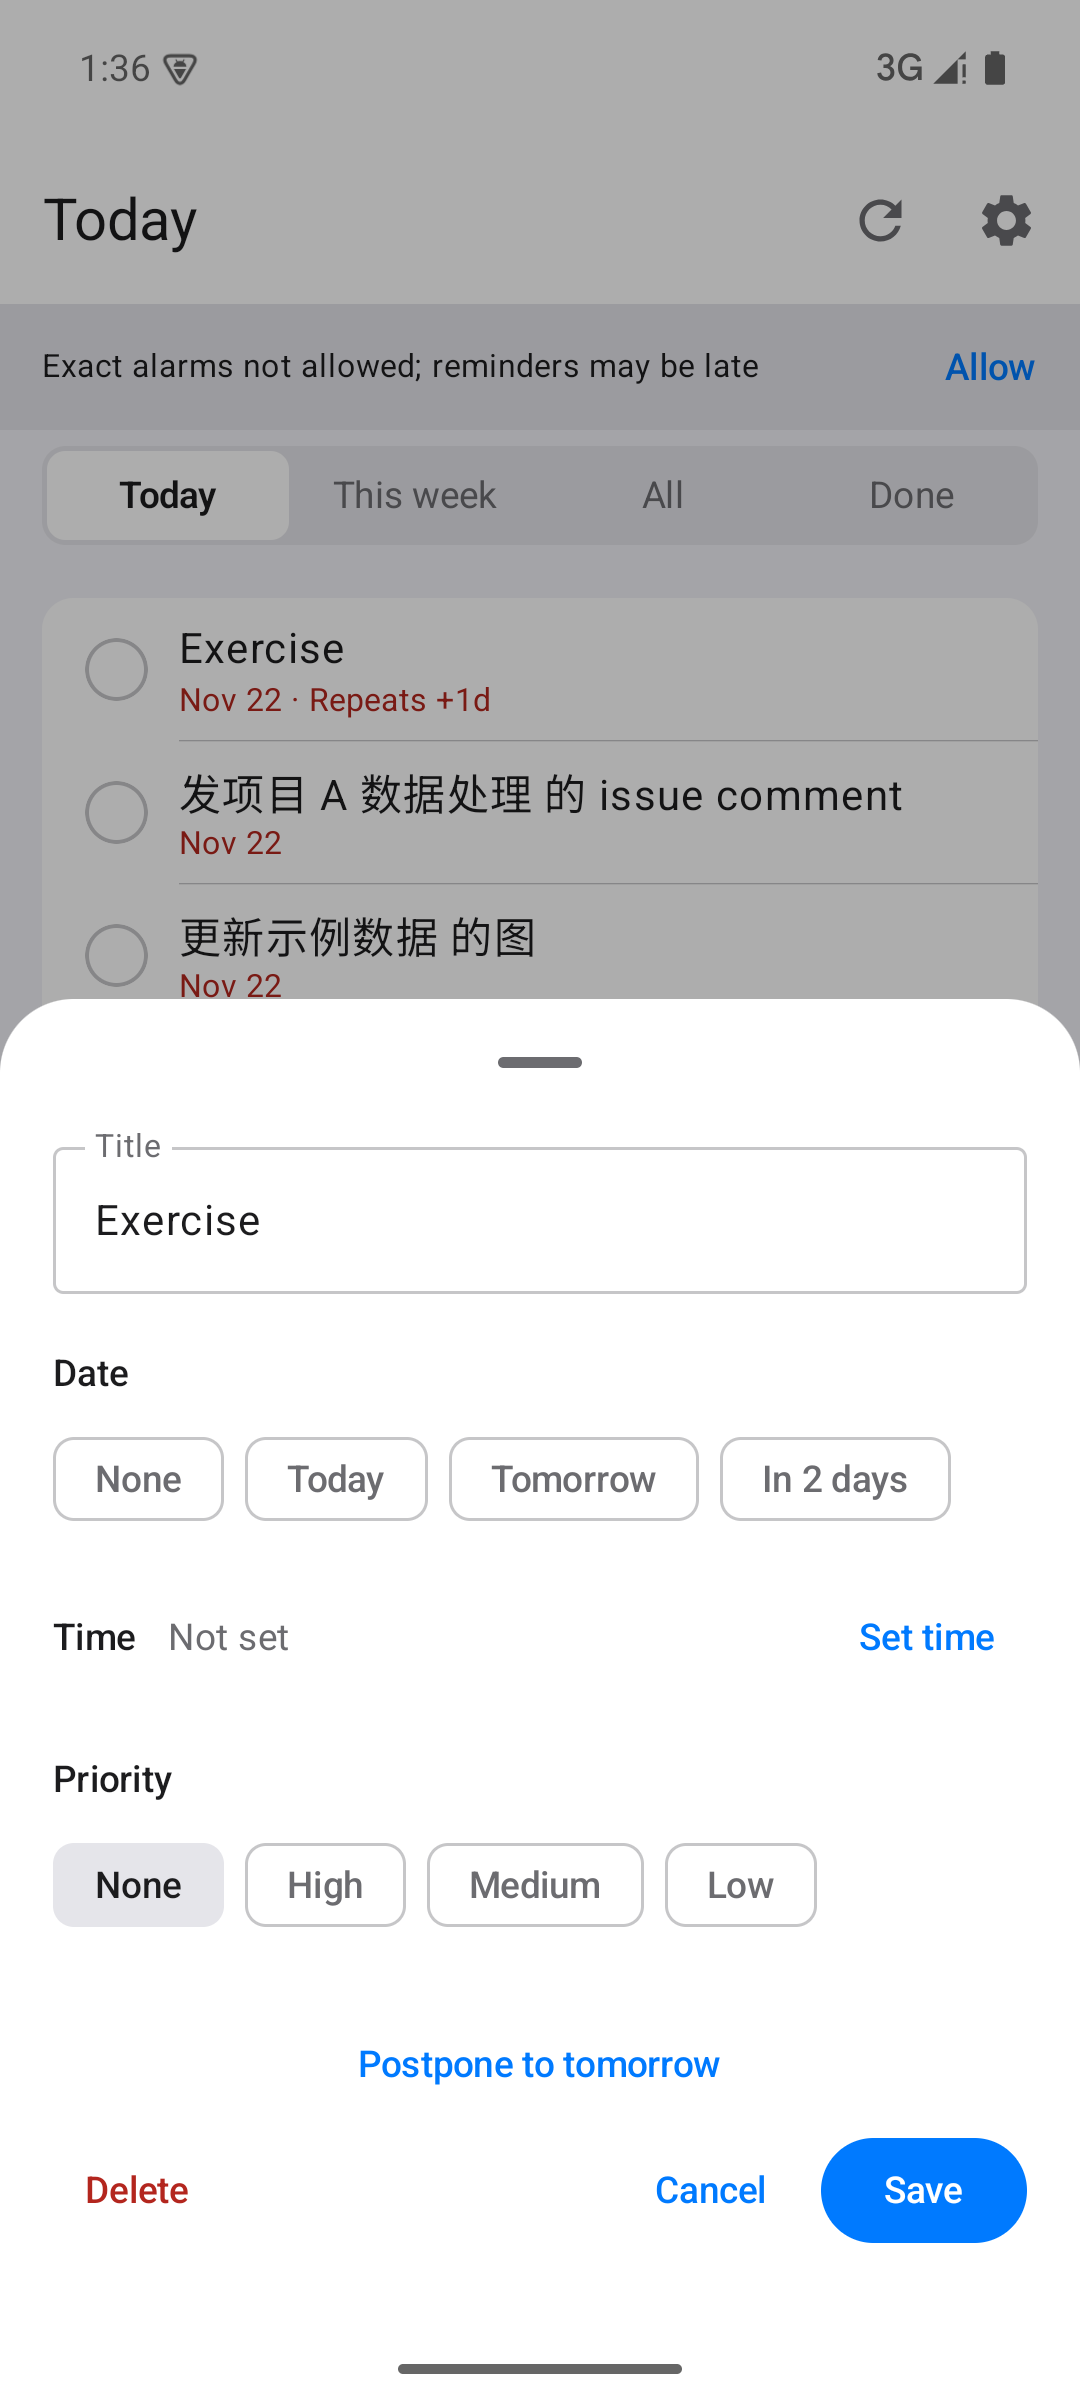
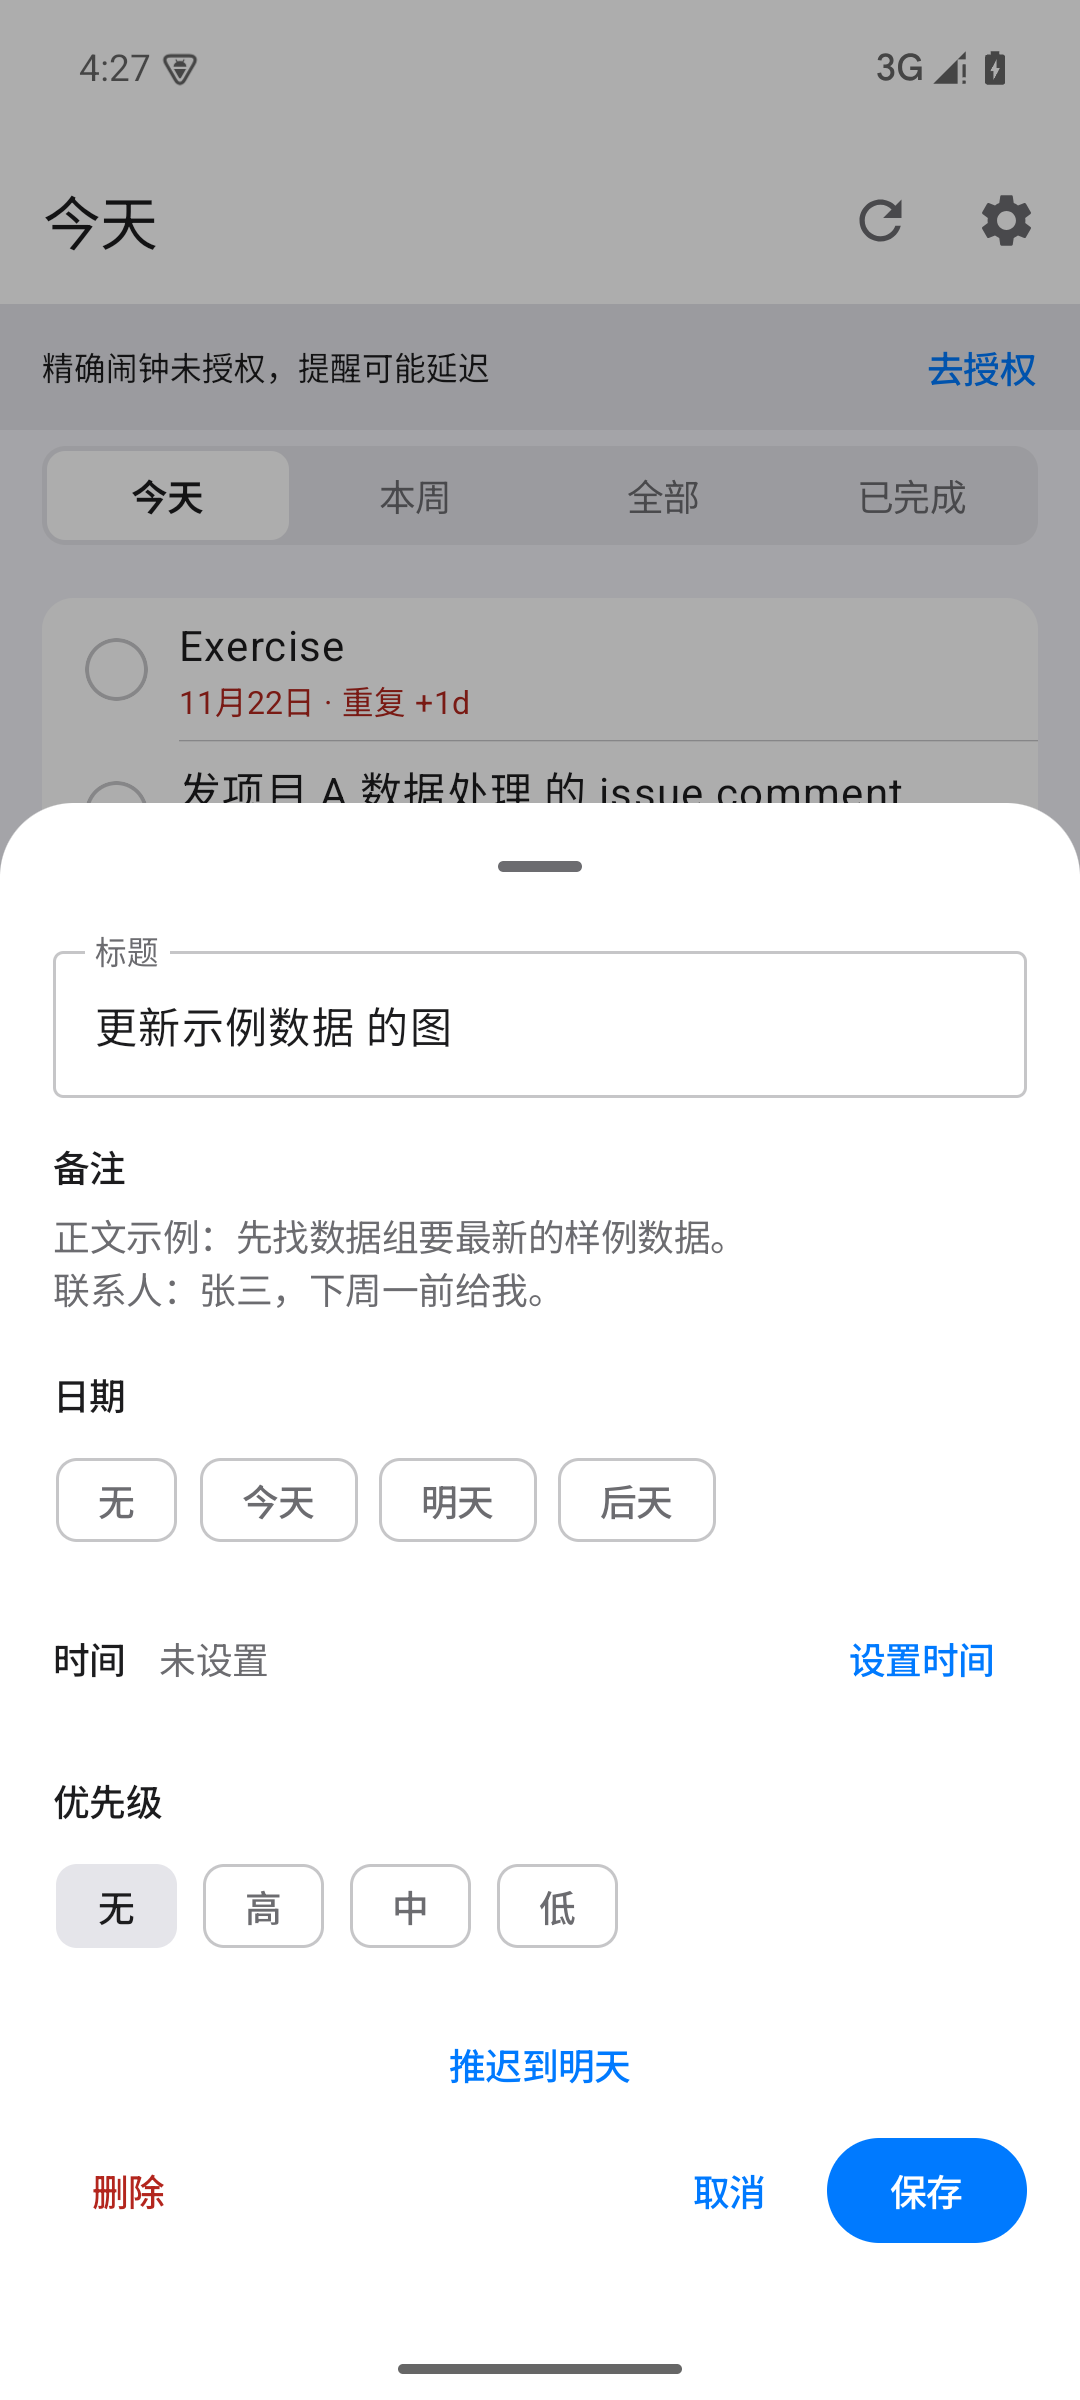
feat: 任务详情显示备注，已完成支持归档/取消归档
- 详情面板新增备注区，保留正文换行，只读
- 已完成任务可写 :ARCHIVED_AT: 归档，列表默认隐藏
- 已完成页新增「已归档」切换，可查看并取消归档
- 补属性读写单测与映射测试（49 个测试）

diff --git a/app/src/main/kotlin/dev/orgtd/ui/TaskEditor.kt b/app/src/main/kotlin/dev/orgtd/ui/TaskEditor.kt
@@ -5,6 +5,9 @@ import androidx.compose.foundation.layout.Column
 import androidx.compose.foundation.layout.Row
 import androidx.compose.foundation.layout.Spacer
 import androidx.compose.foundation.layout.fillMaxWidth
+import androidx.compose.foundation.layout.heightIn
+import androidx.compose.foundation.rememberScrollState
+import androidx.compose.foundation.verticalScroll
 import androidx.compose.foundation.layout.height
 import androidx.compose.foundation.layout.padding
 import androidx.compose.foundation.layout.width
@@ -92,6 +95,8 @@ fun TaskSheet(
     onSave: (String, LocalDate?, LocalTime?, Char?) -> Unit,
     onDelete: () -> Unit,
     onPostpone: (Long) -> Unit,
+    onArchive: () -> Unit,
+    onUnarchive: () -> Unit,
 ) {
     val strings = LocalStrings.current
     val sheetState = rememberBottomSheetState(
@@ -117,6 +122,21 @@ fun TaskSheet(
                 label = { Text(strings.titleLabel) },
                 modifier = Modifier.fillMaxWidth(),
             )
+
+            if (task.body.isNotBlank()) {
+                Spacer(Modifier.height(16.dp))
+                Text(strings.notesLabel, style = MaterialTheme.typography.labelLarge)
+                Text(
+                    text = task.body,
+                    style = MaterialTheme.typography.bodyMedium,
+                    color = MaterialTheme.colorScheme.onSurfaceVariant,
+                    modifier = Modifier
+                        .fillMaxWidth()
+                        .heightIn(max = 220.dp)
+                        .verticalScroll(rememberScrollState())
+                        .padding(top = 6.dp),
+                )
+            }
 
             Spacer(Modifier.height(20.dp))
             Text(strings.dateLabel, style = MaterialTheme.typography.labelLarge)
@@ -172,7 +192,15 @@ fun TaskSheet(
                 }
             }
 
-            Spacer(Modifier.height(20.dp))
+            if (task.done) {
+                Spacer(Modifier.height(12.dp))
+                TextButton(
+                    onClick = { if (task.archived) onUnarchive() else onArchive() },
+                    modifier = Modifier.fillMaxWidth(),
+                ) { Text(if (task.archived) strings.unarchive else strings.archive) }
+            }
+
+            Spacer(Modifier.height(12.dp))
             Box(Modifier.fillMaxWidth()) {
                 var postponeMenu by rememberSaveable { mutableStateOf(false) }
                 TextButton(

diff --git a/app/src/main/kotlin/dev/orgtd/ui/OrgtdApp.kt b/app/src/main/kotlin/dev/orgtd/ui/OrgtdApp.kt
@@ -125,6 +125,8 @@ fun OrgtdApp(
     onAddTaskToList: (String, LocalDate?, Int) -> Unit,
     onUpdateTask: (Int, String, LocalDate?, LocalTime?, Char?) -> Unit,
     onPostponeTask: (Int, Long) -> Unit,
+    onArchiveTask: (Int) -> Unit,
+    onUnarchiveTask: (Int) -> Unit,
     onDeleteTask: (Int) -> Unit,
     onUndoDelete: () -> Unit,
     onAddList: (String) -> Unit,
@@ -403,6 +405,14 @@ fun OrgtdApp(
                 onPostponeTask(editing.line, days)
                 editingLine = -1
             },
+            onArchive = {
+                onArchiveTask(editing.line)
+                editingLine = -1
+            },
+            onUnarchive = {
+                onUnarchiveTask(editing.line)
+                editingLine = -1
+            },
         )
     }
 }
@@ -425,7 +435,28 @@ private fun TodayTab(
     when (Range.entries[rangeIndex]) {
         Range.Today -> TaskList(state.today, today, onToggle, onOpen, onPostpone, strings.noTasksToday)
         Range.Week -> TaskList(state.week, today, onToggle, onOpen, onPostpone, strings.noTasksWeek)
-        Range.Completed -> TaskList(state.completed, today, onToggle, onOpen, onPostpone, strings.noCompleted)
+        Range.Completed -> {
+            var showArchived by rememberSaveable { mutableStateOf(false) }
+            Column(Modifier.fillMaxSize()) {
+                Row(Modifier.padding(horizontal = 16.dp)) {
+                    FilterChip(
+                        selected = showArchived,
+                        onClick = { showArchived = !showArchived },
+                        label = { Text(strings.archived) },
+                    )
+                }
+                Box(Modifier.weight(1f)) {
+                    TaskList(
+                        tasks = if (showArchived) state.archived else state.completed,
+                        today = today,
+                        onToggle = onToggle,
+                        onOpen = onOpen,
+                        onPostpone = onPostpone,
+                        emptyText = if (showArchived) strings.noArchived else strings.noCompleted,
+                    )
+                }
+            }
+        }
         Range.All -> {
             val groups = state.tasks.filter { !it.done }.groupBy { it.listName ?: strings.ungrouped }
             if (groups.isEmpty()) {

diff --git a/orgmode/src/main/kotlin/dev/orgtd/orgmode/OrgDocument.kt b/orgmode/src/main/kotlin/dev/orgtd/orgmode/OrgDocument.kt
@@ -119,6 +119,58 @@ class OrgDocument private constructor(val lines: List<String>) {
         return OrgDocument(out)
     }
 
+    /** 写入/覆盖一个属性；没有属性抽屉时自动补一个。 */
+    fun setProperty(target: Headline, key: String, value: String): OrgDocument {
+        val out = lines.toMutableList()
+        val nl = newline(out)
+        val drawer = findPropertiesDrawer(out, target)
+
+        if (drawer == null) {
+            out.addAll(
+                target.lineIndex + 1,
+                listOf(
+                    "  :PROPERTIES:$nl",
+                    "  :$key: $value$nl",
+                    "  :END:$nl",
+                ),
+            )
+            return OrgDocument(out)
+        }
+
+        val (start, end) = drawer
+        val indent = out[end].takeWhile { it == ' ' || it == '\t' }
+        for (i in start + 1 until end) {
+            val text = lineText(out[i])
+            if (PROPERTY_RE.find(text)?.groupValues?.get(1).equals(key, ignoreCase = true)) {
+                out[i] = "$indent:$key: $value$nl"
+                return OrgDocument(out)
+            }
+        }
+        out.add(end, "$indent:$key: $value$nl")
+        return OrgDocument(out)
+    }
+
+    /** 删除属性；抽屉变空时一并删掉。 */
+    fun removeProperty(target: Headline, key: String): OrgDocument {
+        val out = lines.toMutableList()
+        val drawer = findPropertiesDrawer(out, target) ?: return this
+        val (start, end) = drawer
+
+        for (i in start + 1 until end) {
+            val match = PROPERTY_RE.find(lineText(out[i])) ?: continue
+            if (match.groupValues[1].equals(key, ignoreCase = true)) {
+                out.removeAt(i)
+                break
+            }
+        }
+        if (end - 1 <= start + 1) {
+            out.removeAt(end - 1)
+            out.removeAt(start)
+            return OrgDocument(out)
+        }
+        return OrgDocument(out)
+    }
+
     /**
      * 新建任务。[list] 为 null 时追加到文件末尾（未归类），否则插到该清单子树末尾。
      */

diff --git a/app/src/main/kotlin/dev/orgtd/TaskViewModel.kt b/app/src/main/kotlin/dev/orgtd/TaskViewModel.kt
@@ -43,6 +43,7 @@ data class TaskUi(
     val children: Int = 0,
     val reminderAt: LocalDateTime? = null,
     val body: String = "",
+    val archived: Boolean = false,
 )
 
 data class ListUi(val line: Int, val name: String, val open: Int)
@@ -92,14 +93,18 @@ data class UiState(
 
     val ungrouped: List<TaskUi> get() = tasks.filter { it.listName == null }
 
-    /** 只展示最近 30 天完成的，避免列表无限增长；更早的属于归档范畴。 */
+    /** 只展示最近 30 天完成、且未归档的。 */
     val completed: List<TaskUi>
         get() {
             val cutoff = LocalDate.now().minusDays(30)
             return tasks.filter { task ->
-                task.done && (task.closed == null || !task.closed.toLocalDate().isBefore(cutoff))
+                task.done && !task.archived &&
+                    (task.closed == null || !task.closed.toLocalDate().isBefore(cutoff))
             }.sortedByDescending { it.closed }
         }
+
+    val archived: List<TaskUi>
+        get() = tasks.filter { it.archived }.sortedByDescending { it.closed }
 }
 
 class TaskViewModel(app: Application) : AndroidViewModel(app) {
@@ -311,6 +316,18 @@ class TaskViewModel(app: Application) : AndroidViewModel(app) {
             }
             working
         }
+
+    fun archiveTask(line: Int) = mutate(line) { doc, at ->
+        val entry = doc.entryAt(at) ?: error(strings.staleTask)
+        val withId = doc.ensureId(entry)
+        val target = withId.entryAt(at) ?: error(strings.staleTask)
+        withId.setProperty(target, "ARCHIVED_AT", dev.orgtd.orgmode.OrgTime.formatClosed(LocalDateTime.now()))
+    }
+
+    fun unarchiveTask(line: Int) = mutate(line) { doc, at ->
+        val entry = doc.entryAt(at) ?: error(strings.staleTask)
+        doc.removeProperty(entry, "ARCHIVED_AT")
+    }
 
     /** 推迟：保留原有时刻与重复规则；没有计划行时补一个日期。 */
     fun postponeTask(line: Int, days: Long = 1) = mutate(line) { doc, at ->

diff --git a/orgmode/src/test/kotlin/dev/orgtd/orgmode/OrgDocumentTest.kt b/orgmode/src/test/kotlin/dev/orgtd/orgmode/OrgDocumentTest.kt
@@ -345,6 +345,44 @@ class OrgDocumentTest {
         assertEquals("* 工作\n* 生活\n* 已删除\n** 旧清单\n", next)
     }
 
+    // ------------------------------------------------------------ 属性
+
+    @Test
+    fun `没有抽屉时 setProperty 会创建抽屉`() {
+        val target = document.entryAt(lineOf("* TODO 修改培养计划"))!!
+        val updated = document.setProperty(target, "ARCHIVED_AT", "[2026-11-24 Tue 16:00]")
+
+        val expected = source.replace(
+            "* TODO 修改培养计划\n",
+            "* TODO 修改培养计划\n  :PROPERTIES:\n  :ARCHIVED_AT: [2026-11-24 Tue 16:00]\n  :END:\n",
+        )
+        assertEquals(expected, updated.serialize())
+    }
+
+    @Test
+    fun `已有抽屉时 setProperty 覆盖同名属性`() {
+        val sleep = document.entries.first()
+        val updated = document.setProperty(sleep, "MODIFIED", "[2026-11-24 Tue 16:00]")
+
+        assertEquals("[2026-11-24 Tue 16:00]", updated.entries.first().properties["MODIFIED"])
+        // 原文件本来就有两条 MODIFIED（Sleep / Get up），覆盖不应新增
+        assertEquals(2, Regex(":MODIFIED:").findAll(updated.serialize()).count())
+    }
+
+    @Test
+    fun `removeProperty 删除属性并在抽屉变空时清掉抽屉`() {
+        val sleep = document.entries.first()
+        val withId = document.setProperty(sleep, "ID", "x")
+        val withoutId = withId.removeProperty(withId.entries.first(), "ID")
+        assertEquals(source, withoutId.serialize())
+
+        val single = OrgDocument.parse("* TODO 一件\n  :PROPERTIES:\n  :ID: abc\n  :END:\n")
+        assertEquals(
+            "* TODO 一件\n",
+            single.removeProperty(single.entries.first(), "ID").serialize(),
+        )
+    }
+
     private fun lineOf(headline: String): Int {
         val lines = source.split("\n")
         val index = lines.indexOfFirst { it == headline }

diff --git a/app/src/test/kotlin/dev/orgtd/TaskMapperTest.kt b/app/src/test/kotlin/dev/orgtd/TaskMapperTest.kt
@@ -39,6 +39,17 @@ class TaskMapperTest {
     }
 
     @Test
+    fun `正文保留换行并带上归档标记`() {
+        val doc = OrgDocument.parse(
+            "* 工作\n** DONE 写周报\nCLOSED: [2026-11-24 Tue 16:00]\n  :PROPERTIES:\n  :ARCHIVED_AT: [2026-11-24 Tue 16:00]\n  :END:\n第一行\n第二行\n",
+        )
+        val task = TaskMapper.toTasks(doc).first { it.title == "写周报" }
+
+        assertEquals("第一行\n第二行", task.body)
+        assertTrue(task.archived)
+    }
+
+    @Test
     fun `子任务计数只算直接下级`() {
         val doc = OrgDocument.parse(
             "* 工作\n** TODO 父任务\n*** TODO 子一\n*** TODO 子二\n** TODO 另一个\n",

diff --git a/app/src/main/kotlin/dev/orgtd/Strings.kt b/app/src/main/kotlin/dev/orgtd/Strings.kt
@@ -53,6 +53,11 @@ class AppStrings(private val en: Boolean) {
     val noDate = s("无日期", "No date")
     val priorityLabel = s("优先级", "Priority")
     val timeLabel = s("时间", "Time")
+    val notesLabel = s("备注", "Notes")
+    val archive = s("归档", "Archive")
+    val unarchive = s("取消归档", "Unarchive")
+    val archived = s("已归档", "Archived")
+    val noArchived = s("没有已归档的任务", "No archived tasks")
     val timeNotSet = s("未设置", "Not set")
     val setTime = s("设置时间", "Set time")
     val clearTime = s("清除时间", "Clear time")

diff --git a/app/src/main/kotlin/dev/orgtd/TaskMapper.kt b/app/src/main/kotlin/dev/orgtd/TaskMapper.kt
@@ -30,6 +30,7 @@ object TaskMapper {
                 },
                 reminderAt = reminderAt(headline),
                 body = bodyText(doc, headline),
+                archived = headline.properties.containsKey("ARCHIVED_AT"),
             )
         }
     }
@@ -59,7 +60,7 @@ object TaskMapper {
             if (PLANNING.matcher(text).find()) continue
             parts += text
         }
-        return parts.joinToString(" ")
+        return parts.joinToString("\n")
     }
 
     /** 只对带时刻的计划行提醒：优先 SCHEDULED，其次 DEADLINE。 */

diff --git a/app/src/main/kotlin/dev/orgtd/MainActivity.kt b/app/src/main/kotlin/dev/orgtd/MainActivity.kt
@@ -125,6 +125,8 @@ class MainActivity : ComponentActivity() {
                     onAddTaskToList = viewModel::addTaskToList,
                     onUpdateTask = viewModel::updateTask,
                     onPostponeTask = viewModel::postponeTask,
+                    onArchiveTask = viewModel::archiveTask,
+                    onUnarchiveTask = viewModel::unarchiveTask,
                     onDeleteTask = viewModel::deleteTask,
                     onUndoDelete = viewModel::undoDelete,
                     onAddList = viewModel::addList,

diff --git a/CHANGELOG.md b/CHANGELOG.md
@@ -10,6 +10,7 @@
 - 行级保真的 org 解析：未改动的行逐字节保留，写回后 Emacs 里看不到多余 diff。
 - 今天 / 本周 / 全部 / 已完成四档视图，逾期标红，子任务缩进与计数。
 - 任务操作：勾选完成（写 `DONE` + `CLOSED` + 懒注入 `:ID:`）、新建、改标题/日期/时刻、优先级、删除（可撤销）。
+- 任务详情显示备注正文；已完成任务可归档（`:ARCHIVED_AT:`），「已完成」默认隐藏，「已归档」可查看和取消归档。
 - 手势：左滑完成、右滑推迟一天；详情面板可推迟 1 / 3 / 7 天。
 - 重复任务：`+1d` 补到未来、`.+3d` 从完成日算起，完成后保持 `TODO` 只推进日期。
 - 清单：新建、重命名、上移下移、软删除到 `* 已删除`。
